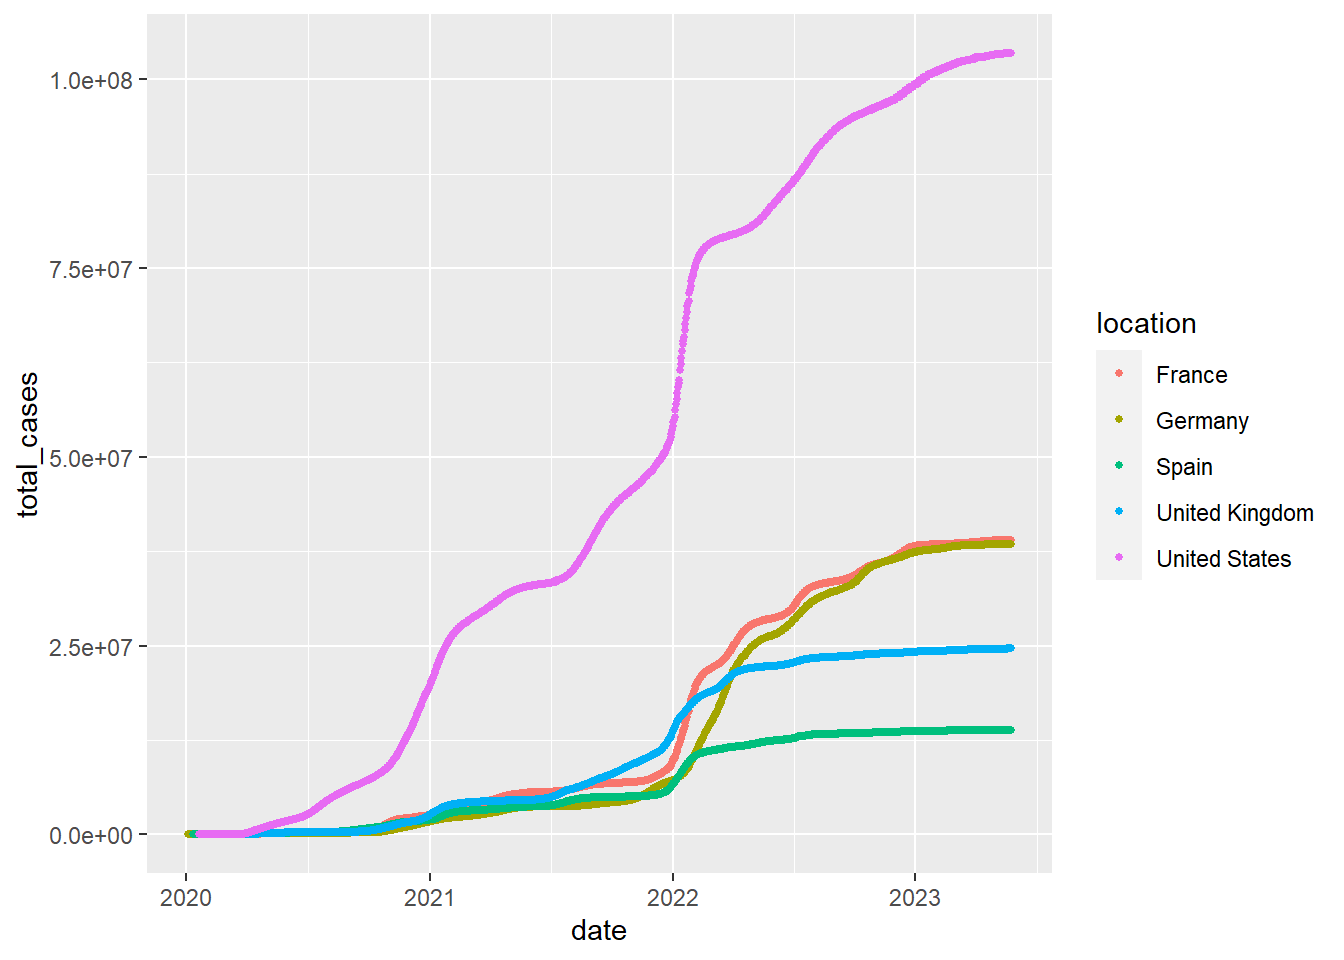
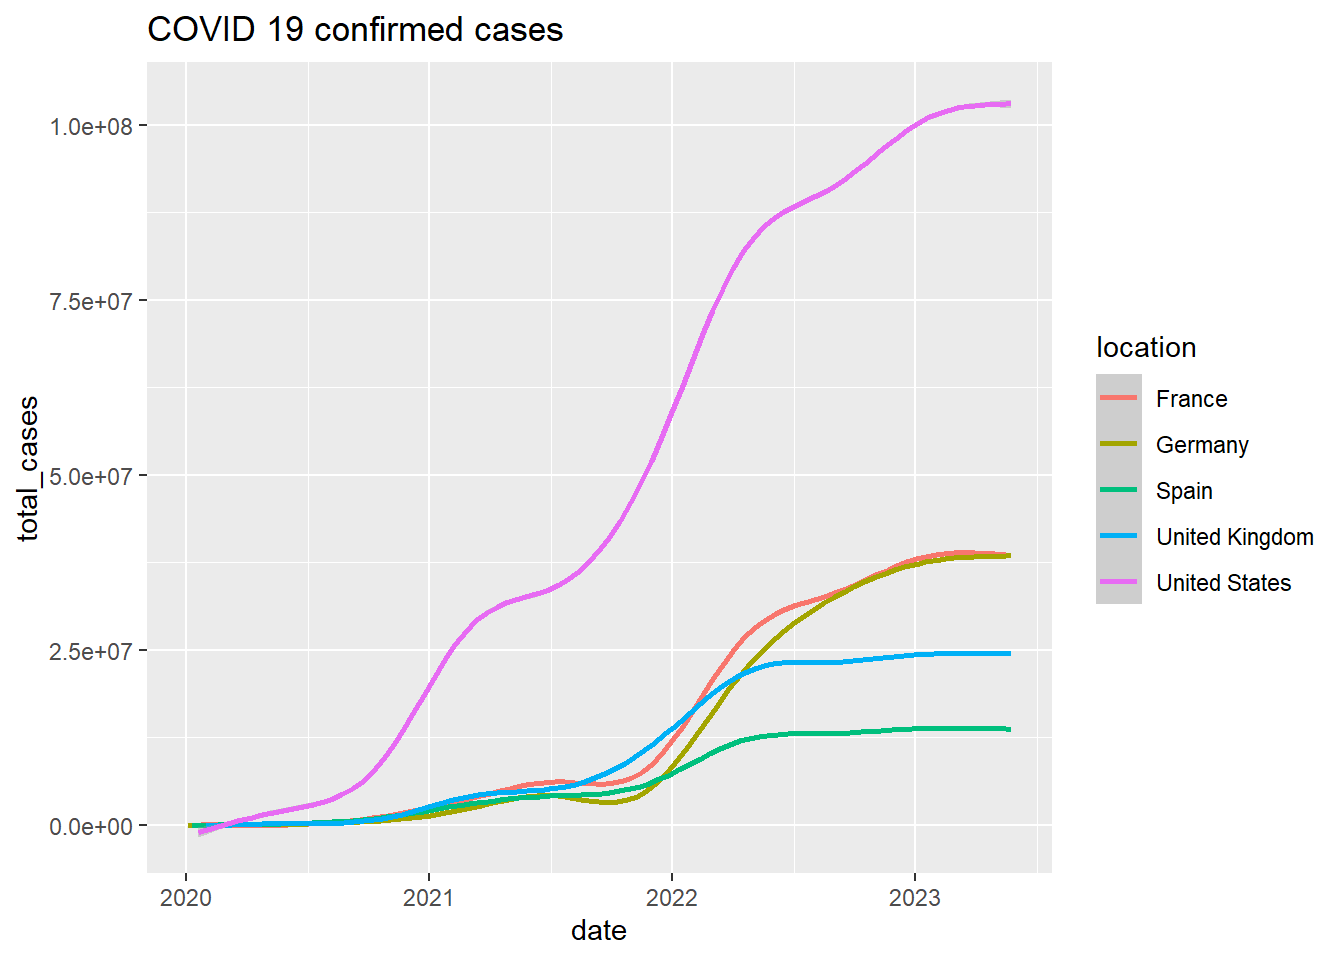
challange 1 corrections

diff --git a/_site/content/01_journal/04_data_visualization.html b/_site/content/01_journal/04_data_visualization.html
@@ -303,7 +303,7 @@ code span.wa { color: #60a0b0; font-weight: bold; font-style: italic; } /* Warni
 </div>
 </section><section id="challange-1" class="level1" data-number="4"><h1 data-number="4">
 <span class="header-section-number">4</span> Challange 1</h1>
-<div class="cell" data-hash="04_data_visualization_cache/html/unnamed-chunk-3_3a3c7022deeb54b81d0c0ac69d089986">
+<div class="cell" data-hash="04_data_visualization_cache/html/unnamed-chunk-3_d5754888d85b78df1a027bb2c5538742">
 <div class="sourceCode cell-code" id="cb10"><pre class="sourceCode numberSource r number-lines code-with-copy"><code class="sourceCode r"><span id="cb10-1"><a href="#cb10-1"></a>covid_data_tbl <span class="ot">&lt;-</span> <span class="fu">read_csv</span>(<span class="st">"https://covid.ourworldindata.org/data/owid-covid-data.csv"</span>)</span></code><button title="Copy to Clipboard" class="code-copy-button"><i class="bi"></i></button></pre></div>
 <div class="cell-output cell-output-stderr">
 <pre><code>#&gt; Rows: 313070 Columns: 67
@@ -318,9 +318,12 @@ code span.wa { color: #60a0b0; font-weight: bold; font-style: italic; } /* Warni
 </div>
 <div class="sourceCode cell-code" id="cb12"><pre class="sourceCode numberSource r number-lines code-with-copy"><code class="sourceCode r"><span id="cb12-1"><a href="#cb12-1"></a>case_data <span class="ot">&lt;-</span> covid_data_tbl <span class="sc">%&gt;%</span> <span class="fu">filter</span>(location<span class="sc">%in%</span> <span class="fu">c</span>(<span class="st">"France"</span>, <span class="st">"Germany"</span>, <span class="st">"Spain"</span>, <span class="st">"United Kingdom"</span>, <span class="st">"United States"</span>))</span>
 <span id="cb12-2"><a href="#cb12-2"></a></span>
-<span id="cb12-3"><a href="#cb12-3"></a>case_data <span class="sc">%&gt;%</span> <span class="fu">ggplot</span>(<span class="fu">aes</span>(date, total_cases, <span class="at">color =</span> location)) <span class="sc">+</span> <span class="fu">geom_point</span>(<span class="at">size =</span> <span class="dv">1</span>)</span></code><button title="Copy to Clipboard" class="code-copy-button"><i class="bi"></i></button></pre></div>
+<span id="cb12-3"><a href="#cb12-3"></a>case_data <span class="sc">%&gt;%</span> <span class="fu">ggplot</span>(<span class="fu">aes</span>(<span class="at">x =</span> date, <span class="at">y =</span> total_cases, <span class="at">color =</span> location, <span class="at">position =</span> <span class="st">"bottom"</span>)) <span class="sc">+</span> <span class="fu">geom_smooth</span>() <span class="sc">+</span> <span class="fu">labs</span>(<span class="at">title =</span> <span class="st">"COVID 19 confirmed cases"</span>)</span></code><button title="Copy to Clipboard" class="code-copy-button"><i class="bi"></i></button></pre></div>
 <div class="cell-output cell-output-stderr">
-<pre><code>#&gt; Warning: Removed 76 rows containing missing values (`geom_point()`).</code></pre>
+<pre><code>#&gt; `geom_smooth()` using method = 'gam' and formula = 'y ~ s(x, bs = "cs")'</code></pre>
+</div>
+<div class="cell-output cell-output-stderr">
+<pre><code>#&gt; Warning: Removed 76 rows containing non-finite values (`stat_smooth()`).</code></pre>
 </div>
 <div class="cell-output-display">
 <div class="quarto-figure quarto-figure-center">
@@ -580,7 +583,7 @@ window.document.addEventListener("DOMContentLoaded", function (event) {
 });
 </script>
 </div> <!-- /content -->
-<script>var lightboxQuarto = GLightbox({"selector":".lightbox","loop":true,"descPosition":"bottom","closeEffect":"zoom","openEffect":"zoom"});</script>
+<script>var lightboxQuarto = GLightbox({"openEffect":"zoom","closeEffect":"zoom","selector":".lightbox","loop":true,"descPosition":"bottom"});</script>
 
 
 </body></html>

diff --git a/_site/content/01_journal/01_tidyverse.html b/_site/content/01_journal/01_tidyverse.html
@@ -677,7 +677,7 @@ window.document.addEventListener("DOMContentLoaded", function (event) {
 });
 </script>
 </div> <!-- /content -->
-<script>var lightboxQuarto = GLightbox({"selector":".lightbox","openEffect":"zoom","descPosition":"bottom","closeEffect":"zoom","loop":true});</script>
+<script>var lightboxQuarto = GLightbox({"selector":".lightbox","loop":true,"descPosition":"bottom","openEffect":"zoom","closeEffect":"zoom"});</script>
 
 
 </body></html>

diff --git a/_site/content/01_journal/02_data_acquisition.html b/_site/content/01_journal/02_data_acquisition.html
@@ -651,7 +651,7 @@ window.document.addEventListener("DOMContentLoaded", function (event) {
 });
 </script>
 </div> <!-- /content -->
-<script>var lightboxQuarto = GLightbox({"selector":".lightbox","closeEffect":"zoom","openEffect":"zoom","loop":true,"descPosition":"bottom"});</script>
+<script>var lightboxQuarto = GLightbox({"selector":".lightbox","openEffect":"zoom","descPosition":"bottom","loop":true,"closeEffect":"zoom"});</script>
 
 
 </body></html>

diff --git a/_site/index.html b/_site/index.html
@@ -430,7 +430,7 @@ window.document.addEventListener("DOMContentLoaded", function (event) {
 });
 </script>
 </div> <!-- /content -->
-<script>var lightboxQuarto = GLightbox({"loop":true,"openEffect":"zoom","descPosition":"bottom","selector":".lightbox","closeEffect":"zoom"});</script>
+<script>var lightboxQuarto = GLightbox({"closeEffect":"zoom","selector":".lightbox","descPosition":"bottom","loop":true,"openEffect":"zoom"});</script>
 
 
 
